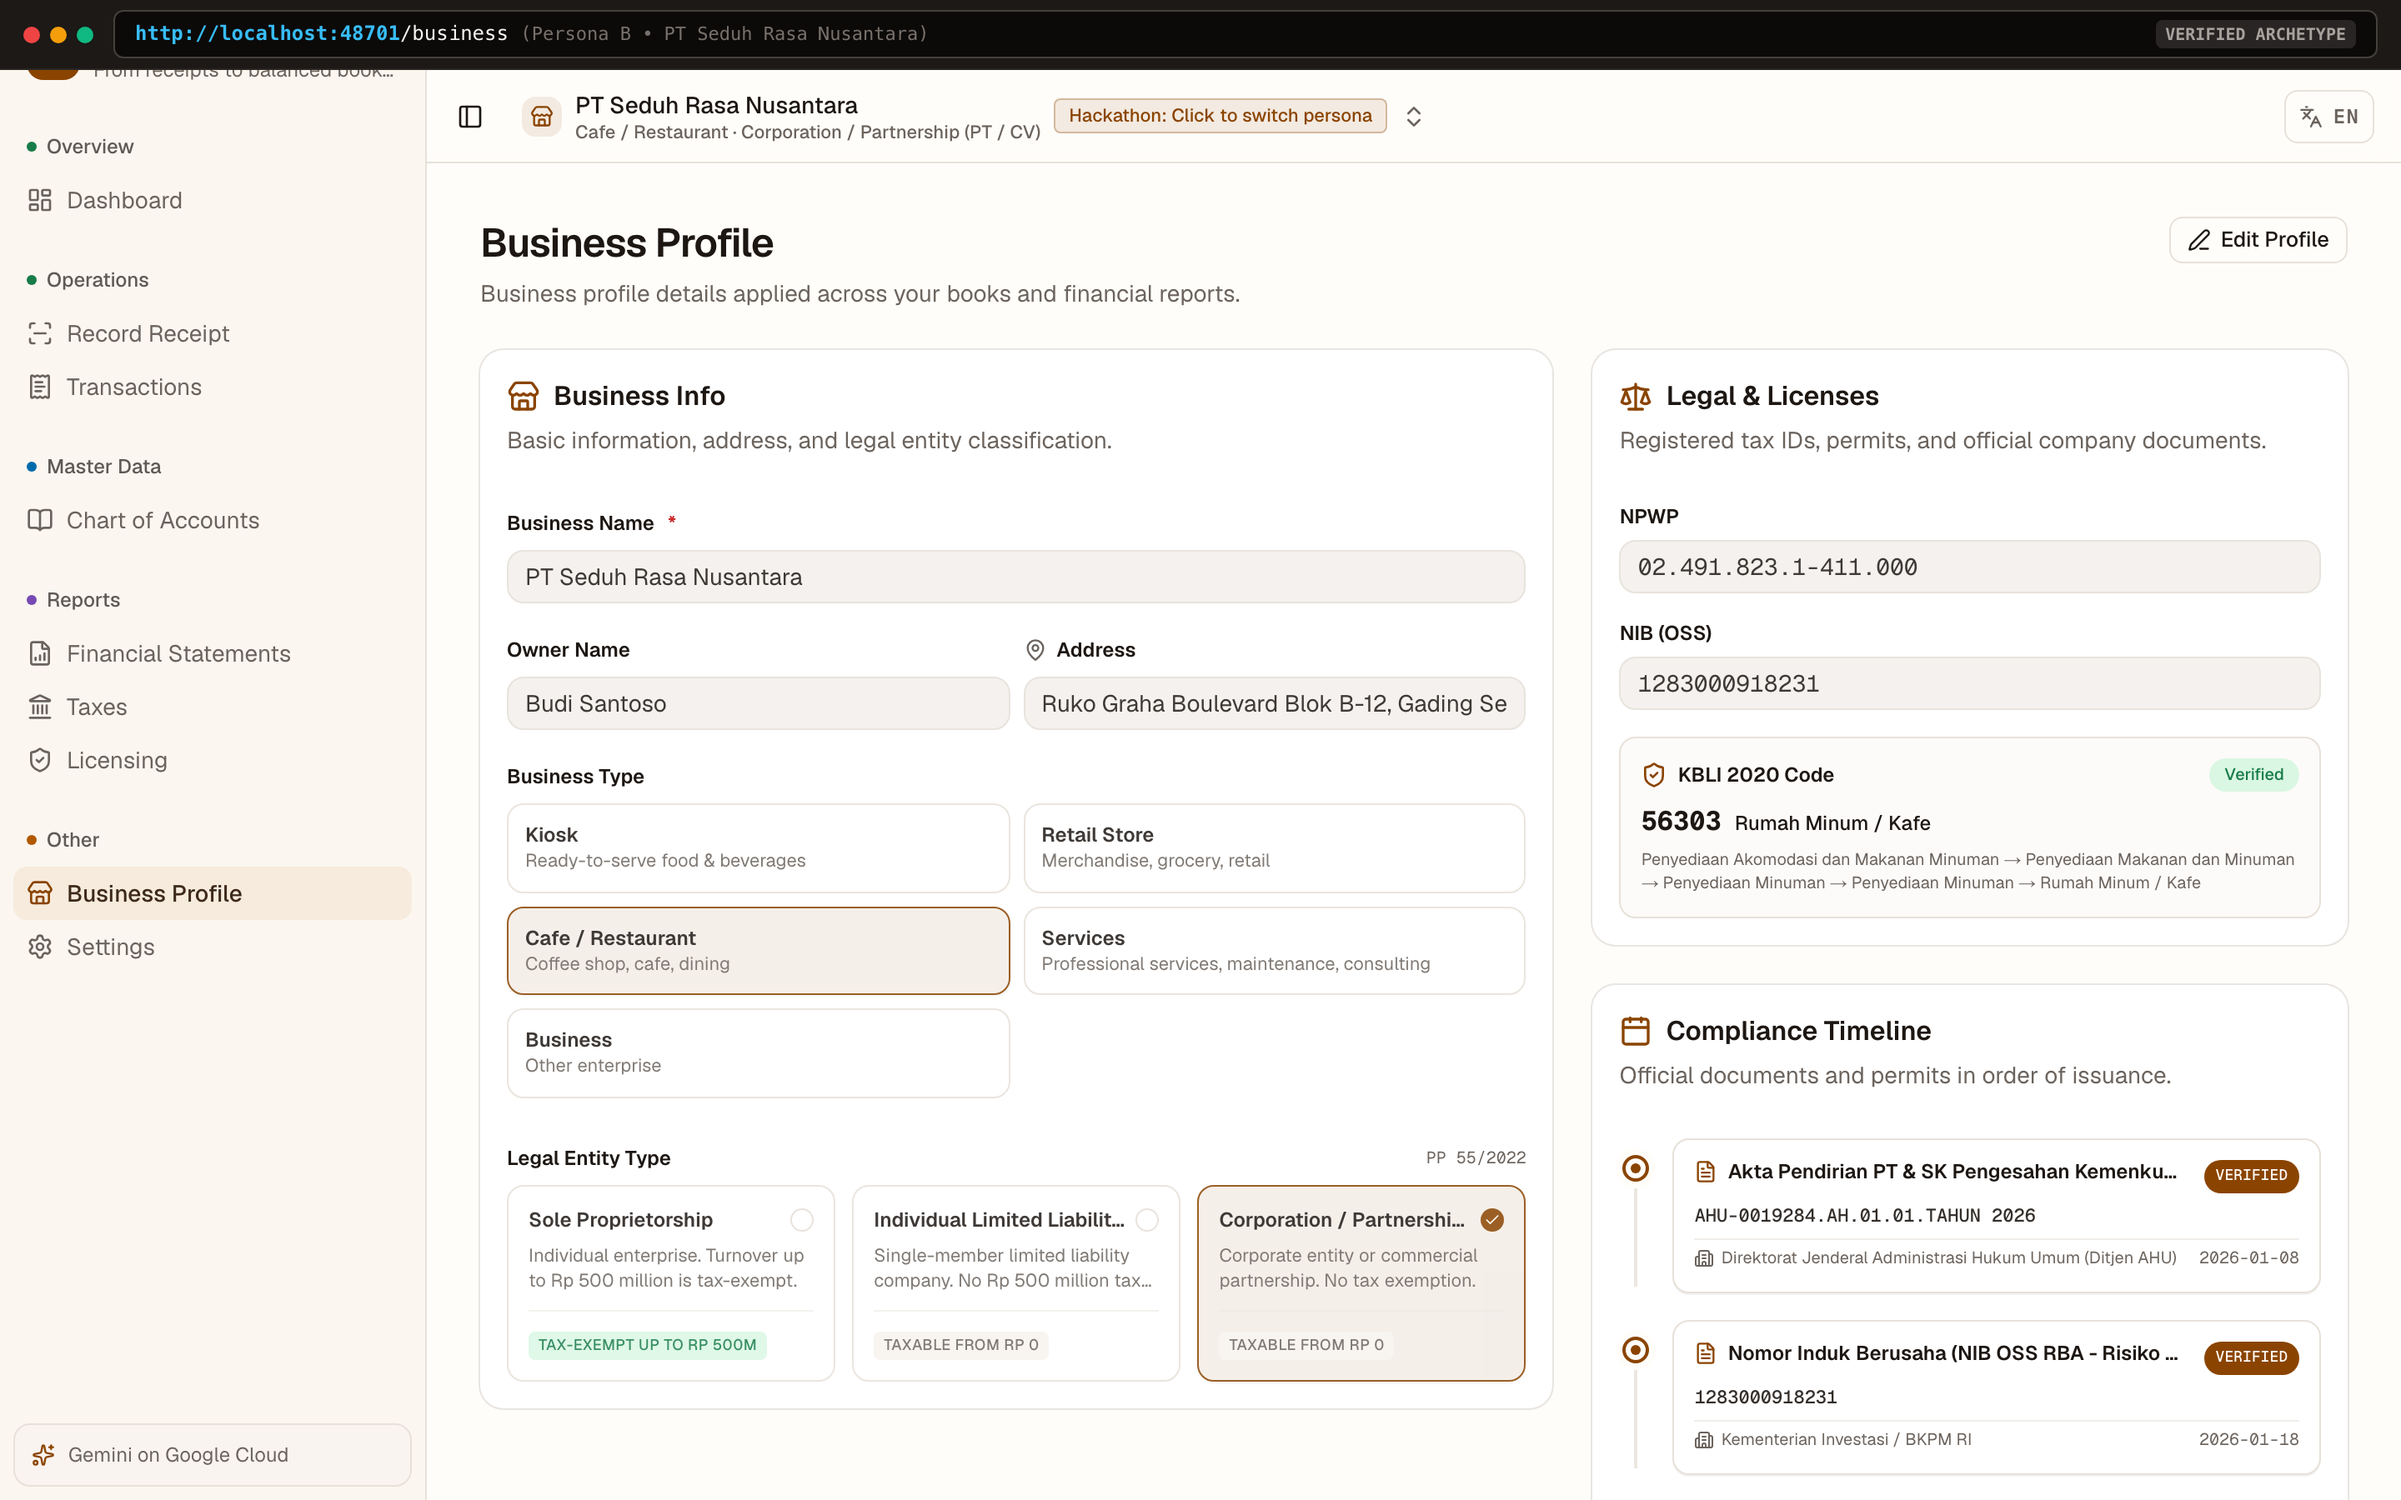
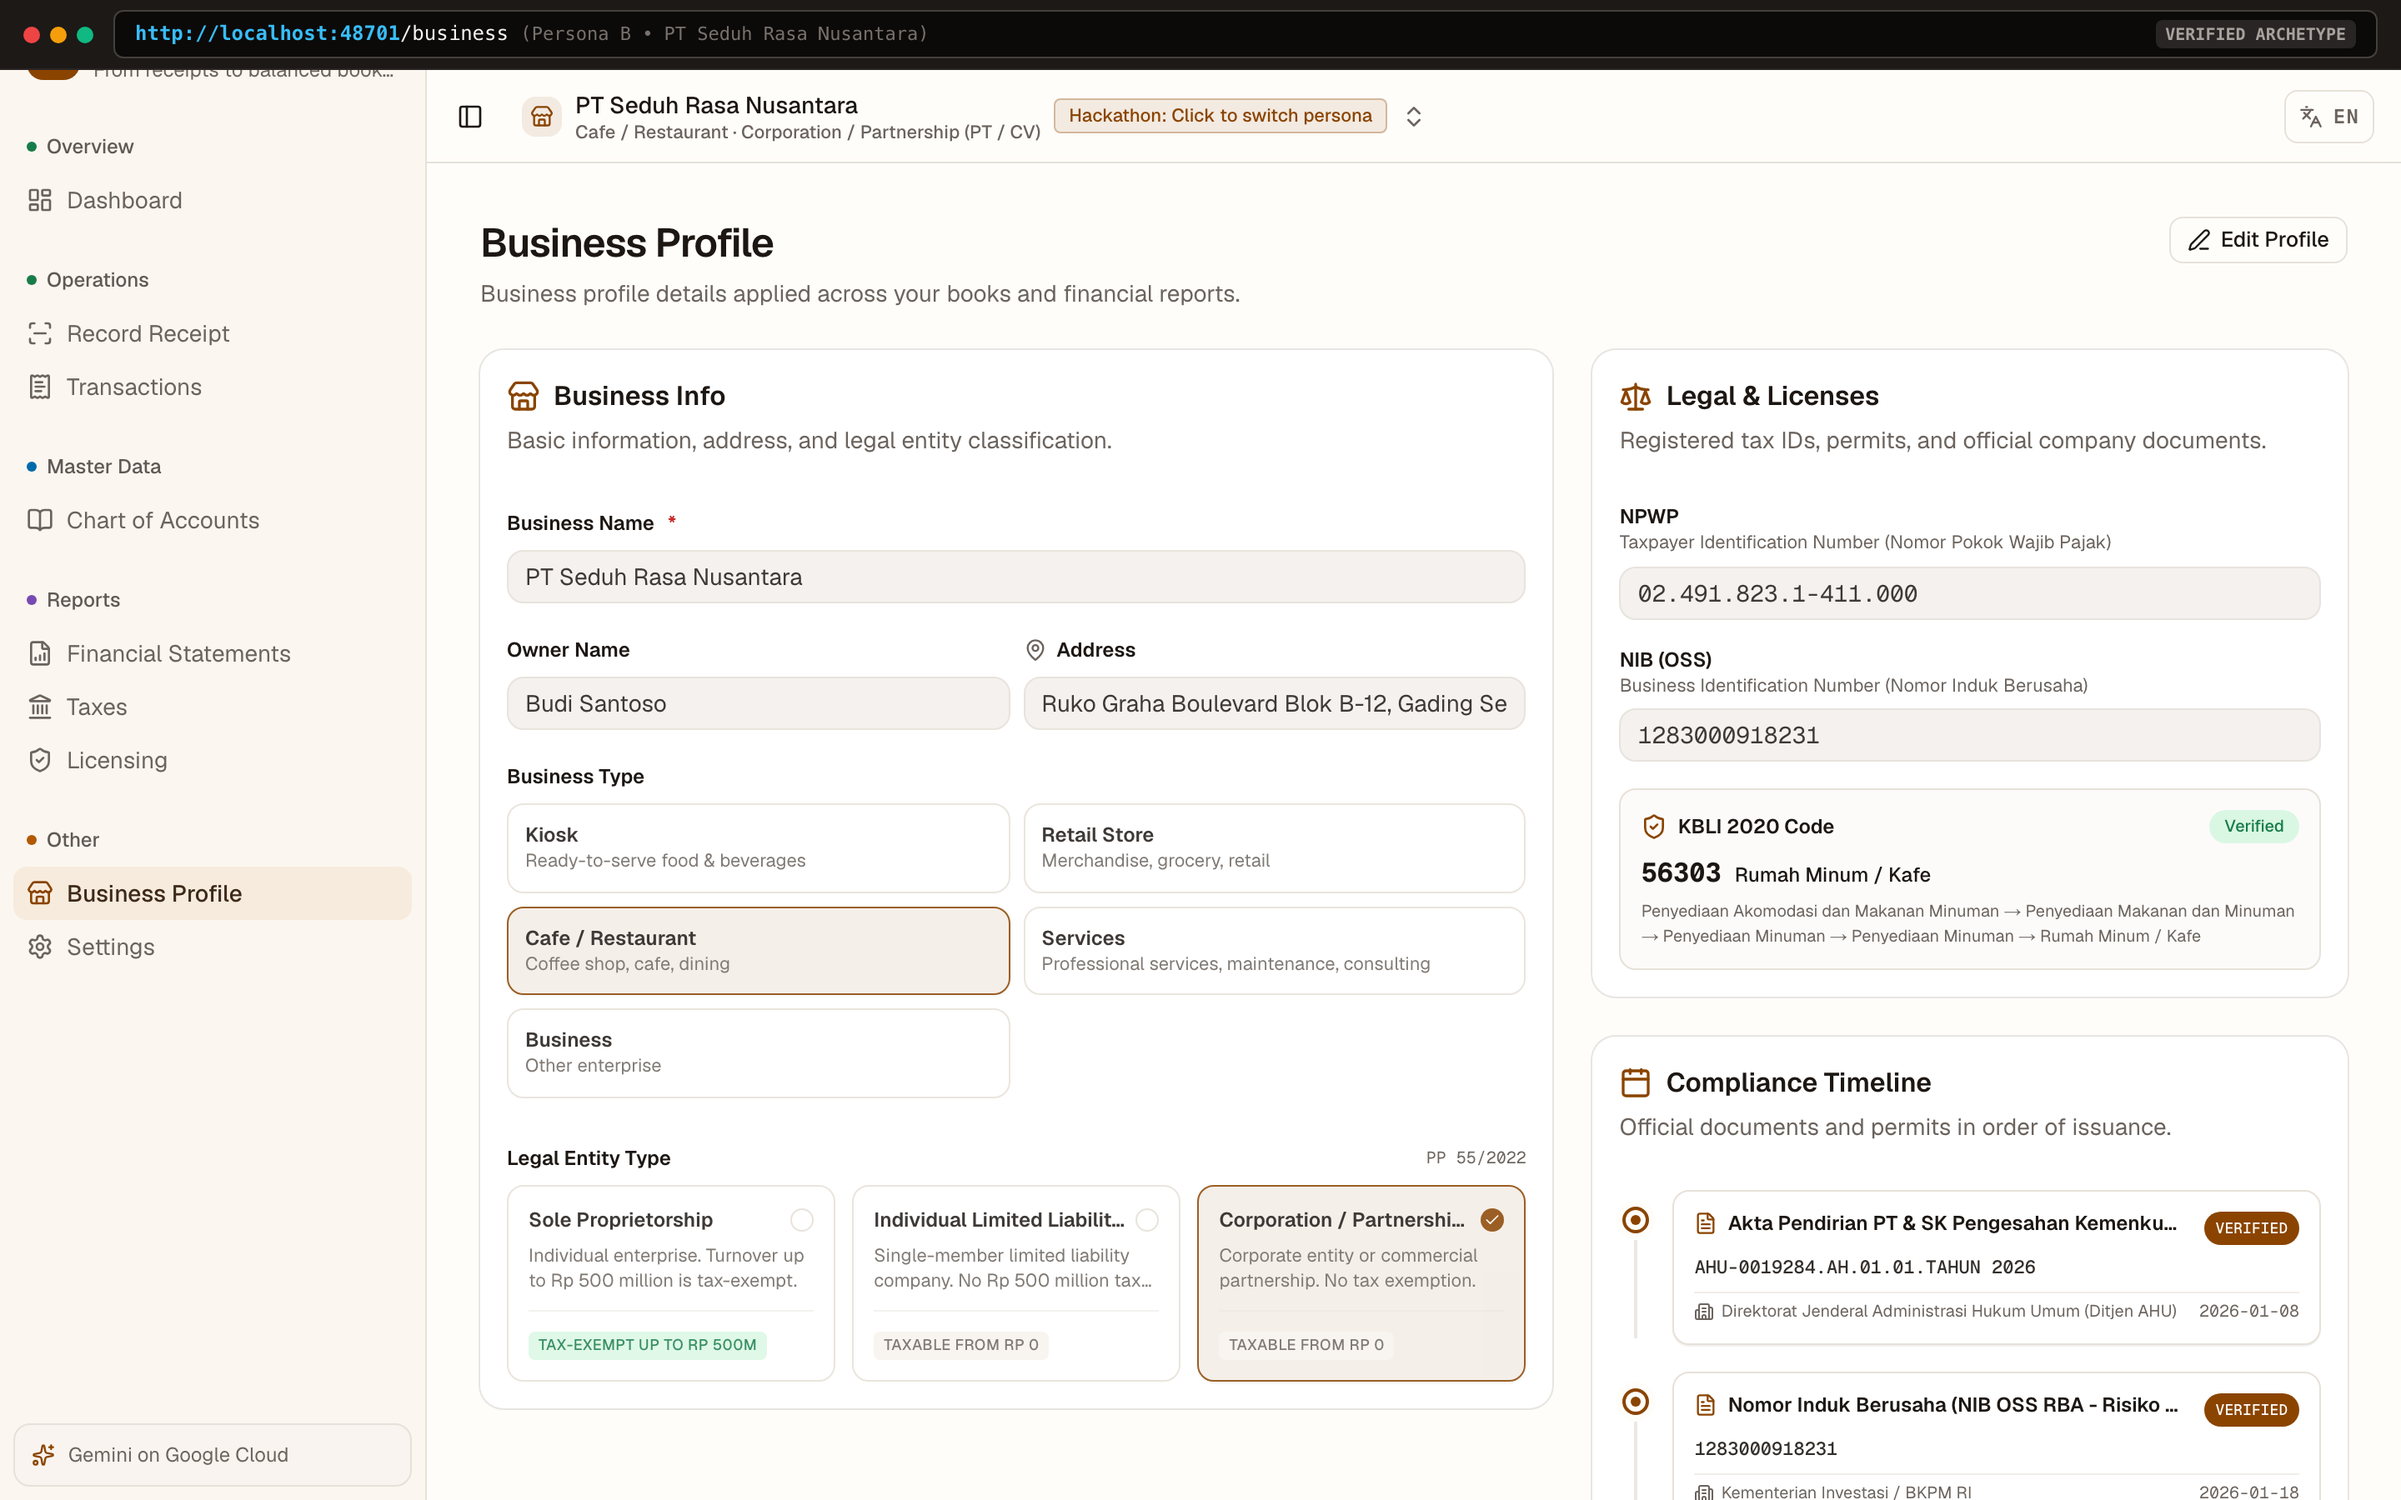
feat(business): add descriptive definitions for NPWP and NIB identifiers

Changed region(s): [[0.6562, 0.3422, 0.9688, 1.0], [0.9062, 0.9956, 0.9688, 1.0]]

diff --git a/web/src/app/(app)/business/page.tsx b/web/src/app/(app)/business/page.tsx
@@ -400,9 +400,14 @@ export default function UsahaPage() {
             <CardContent className="grid gap-4">
               {/* NPWP */}
               <div className="grid gap-1.5">
-                <Label htmlFor="biz-npwp" className="text-xs font-semibold">
-                  {copy.usaha.npwpLabel}
-                </Label>
+                <div>
+                  <Label htmlFor="biz-npwp" className="text-xs font-semibold">
+                    {copy.usaha.npwpLabel}
+                  </Label>
+                  <p className="text-[11px] text-muted-foreground">
+                    {copy.usaha.npwpMeaning}
+                  </p>
+                </div>
                 <Input
                   id="biz-npwp"
                   value={npwp}
@@ -415,9 +420,14 @@ export default function UsahaPage() {
 
               {/* NIB OSS */}
               <div className="grid gap-1.5">
-                <Label htmlFor="biz-nib" className="text-xs font-semibold">
-                  {copy.usaha.nibLabel}
-                </Label>
+                <div>
+                  <Label htmlFor="biz-nib" className="text-xs font-semibold">
+                    {copy.usaha.nibLabel}
+                  </Label>
+                  <p className="text-[11px] text-muted-foreground">
+                    {copy.usaha.nibMeaning}
+                  </p>
+                </div>
                 <Input
                   id="biz-nib"
                   value={nib}

diff --git a/web/src/lib/copy-en.ts b/web/src/lib/copy-en.ts
@@ -448,8 +448,10 @@ export const copyEn = {
     addressLabel: "Address",
     addressPlaceholder: "Jl. Sudirman No. 10, Jakarta",
     npwpLabel: "NPWP",
+    npwpMeaning: "Taxpayer Identification Number (Nomor Pokok Wajib Pajak)",
     npwpPlaceholder: "00.000.000.0-000.000",
     nibLabel: "NIB (OSS)",
+    nibMeaning: "Business Identification Number (Nomor Induk Berusaha)",
     nibPlaceholder: "13-digit OSS RBA number",
     macroHeading: "Business Info",
     macroSubtitle: "Basic information, address, and legal entity classification.",

diff --git a/web/src/lib/copy-id.ts b/web/src/lib/copy-id.ts
@@ -453,8 +453,10 @@ export const copyId = {
     addressLabel: "Alamat",
     addressPlaceholder: "Jl. Sudirman No. 10, Jakarta",
     npwpLabel: "NPWP",
+    npwpMeaning: "Nomor Pokok Wajib Pajak",
     npwpPlaceholder: "00.000.000.0-000.000",
     nibLabel: "NIB (OSS)",
+    nibMeaning: "Nomor Induk Berusaha (OSS RBA)",
     nibPlaceholder: "13 digit NIB OSS RBA",
     macroHeading: "Informasi Usaha",
     macroSubtitle: "Data dasar, alamat operasional, dan bentuk badan usaha.",
